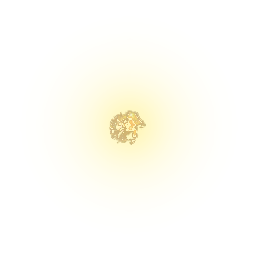
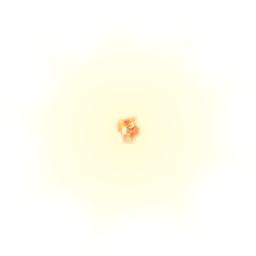
the mark

Changed region(s): [[0.4062, 0.4062, 0.5938, 0.5625]]

diff --git a/soba/test.js b/soba/test.js
@@ -1,158 +1,141 @@
 ( function () {
     'use strict'
-    //From Ashes To Ashes
     //WORLDJS.seed( 'FTg4NCfth3BGzZdR3sWrVDYP' )
-    WORLDJS.zoom( 3 )
+
+    WORLDJS.zoom( 2 )
+
+    const player = WORLDJS.add( { sprite: { image: 'frame' }, width: 5, height: 5, speed: 0.06, physical: true, rotationLock: true } )
+    WORLDJS.add( player, { sprite: { image: 'male' } } ) //, sprite_scale: .3 } )
+
+    let playerspawn = null
+    let campfire = null
+
     WORLDJS.addEventListener( WORLDJS, 'oncellnew', cell => {
         let nx = ( cell.x + 50000 ) / 100000
         let ny = ( cell.y + 50000 ) / 100000
+        let n50 = WORLDJS.noise( nx * 50, ny * 50 )
+        let n100 = WORLDJS.noise( nx * 100, ny * 100 )
+        let n5000 = WORLDJS.noise( nx * 5000, ny * 5000 )
         let n10000 = WORLDJS.noise( nx * 10000, ny * 10000 )
-        WORLDJS.add( { sprite: { image: n10000 > 0 ? 'water' : 'water1' }, x: cell.x, y: cell.y, width: WORLDJS.CELLSIZE, height: WORLDJS.CELLSIZE, opacity: .5, rotation: n10000 * Math.PI, swell_affected: 1 } )
-    } )
-    let swell = .5
-    WORLDJS.start( () => {
-    }, node => {
-        let sprite = WORLDJS.sprites[ node.sprite.name ]
-        if ( 0 < node.swell_affected ) {
-            let n = WORLDJS.time * swell * .0001
-            node.rotation_delta = WORLDJS.noise( node.x / 900 + n, node.y / 900 + n ) * node.swell_affected * 2
-            node.sprite_scale_delta = ( .5 + WORLDJS.noise( node.x / 1200 + n, node.y / 1200 + n ) ) * node.swell_affected * sprite.half_width * .4
+        let n30000 = WORLDJS.noise( nx * 30000, ny * 30000 )
+        if ( n50 < -.1 ) {
+            WORLDJS.add( { sprite: { image: n10000 > 0 ? 'water' : 'water1' }, x: cell.x, y: cell.y, width: WORLDJS.CELLSIZE, height: WORLDJS.CELLSIZE, opacity: .8, rotation: n10000 * Math.PI, swell_affected: 1 } )
+            return
+        }
+        let groundcover = Math.max( 0, Math.min( 1, ( ( ( Math.abs( n100 ) * 2 ) - 1 ) * .5 + n50 * .5 ) + .5 ) * 1.5 )
+        let nodetype = 'water'
+        if ( n50 > .01 ) {
+            WORLDJS.add( { sprite: { image: 'groundgrass' }, x: cell.x + n10000 * 16, y: cell.y + n10000 * 16, width: WORLDJS.CELLSIZE, height: WORLDJS.CELLSIZE, layer: -2, opacity: groundcover, rotation: n10000 * Math.PI } )
+            nodetype = 'groundgrass'
+        } else if ( n100 > 0 ) {
+            WORLDJS.add( { sprite: { image: 'sand' }, x: cell.x + n10000 * 16, y: cell.y + n10000 * 16, width: WORLDJS.CELLSIZE, height: WORLDJS.CELLSIZE, opacity: .8, layer: -1, rotation: n10000 } )
+            nodetype = 'sand'
+        }
+        let offset = n5000 * 25
+        if ( n50 > .01 ) {
+            if ( groundcover > .1 ) {
+                if ( n10000 > 0.7 ) {
+                    WORLDJS.add( { sprite: { image: n10000 < .8 ? 'flower0' : n10000 < .9 ? 'flower1' : n10000 < .95 ? 'flower2' : 'flower3', y: -.9 }, x: cell.x + offset, y: cell.y + offset, rotation: n30000 * Math.PI, wind_affected: 1 } )
+                    nodetype = 'flower'
+                }
+                if ( groundcover > .2 && n5000 > 0.7 ) {
+                    let size = ( groundcover + ( n30000 + 1 ) * .5 ) * 64
+                    WORLDJS.add( { sprite: { image: 'grass0', y: -.2 }, x: cell.x + offset, y: cell.y + offset, width: .6 * size, height: .1 * size, rotation: n30000 * .3, sprite_scale: size / 128, wind_affected: 1 } )
+                    nodetype = 'grass'
+                }
+            }
+        }
+        if ( !playerspawn && n50 > .1 && groundcover > .8 ) {
+            playerspawn = cell
         }
     } )
 
-    // const player = WORLDJS.add( { sprite: { image: 'frame' }, width: 5, height: 5, speed: 0.06, physical: true, rotationLock: true } )
-    // WORLDJS.add( player, { sprite: { image: 'male' } } ) //, sprite_scale: .3 } )
+    WORLDJS.defineSprite( { name: 'object', fill: '#222222', width: 5, height: 5 } )
+    WORLDJS.defineSprite( { name: 'debugreachable', fill: '#22ff22', width: WORLDJS.CELLSIZE, height: WORLDJS.CELLSIZE } )
 
-    // let playerspawn = null
-    // let campfire = null
+    WORLDJS.addEventListener( player, 'nodecellschanged', () => {
+        // let cells = WORLDJS.cellsOccupiedBy( player, player, false, 64, 64 )
+        // for ( let i = 0, l = cells.length; i < l; i++ ) {
+        //     let cell = cells[ i ]
+        //     // cell.debug0 && WORLDJS.setSprite( cell.debug0, { name: 'debugreachable' } )
+        // }
+    } )
 
-    // WORLDJS.addEventListener( WORLDJS, 'oncellnew', cell => {
-    //     let nx = ( cell.x + 50000 ) / 100000
-    //     let ny = ( cell.y + 50000 ) / 100000
-    //     let n50 = WORLDJS.noise( nx * 50, ny * 50 )
-    //     let n100 = WORLDJS.noise( nx * 100, ny * 100 )
-    //     let n1000 = WORLDJS.noise( nx * 1000, ny * 1000 )
-    //     let n5000 = WORLDJS.noise( nx * 5000, ny * 5000 )
-    //     let n10000 = WORLDJS.noise( nx * 10000, ny * 10000 )
-    //     let n30000 = WORLDJS.noise( nx * 30000, ny * 30000 )
-    //     if ( n50 < -.1 ) {
-    //         WORLDJS.add( { sprite: { image: n10000 > 0 ? 'water' : 'water1' }, x: cell.x, y: cell.y, width: WORLDJS.CELLSIZE, height: WORLDJS.CELLSIZE, opacity: .5, rotation: n10000 * Math.PI, swell_affected: 1 } )
-    //         return
-    //     }
-    //     let groundcover = Math.max( 0, Math.min( 1, ( ( ( Math.abs( n100 ) * 2 ) - 1 ) * .5 + n50 * .5 ) + .5 ) * 1.5 )
-    //     let nodetype = 'water'
-    //     if ( n50 > .01 ) {
-    //         WORLDJS.add( { sprite: { image: 'groundgrass' }, x: cell.x + n10000 * 16, y: cell.y + n10000 * 16, width: WORLDJS.CELLSIZE, height: WORLDJS.CELLSIZE, layer: -2, opacity: groundcover, rotation: n10000 * Math.PI } )
-    //         nodetype = 'groundgrass'
-    //     } else if ( n100 > 0 ) {
-    //         WORLDJS.add( { sprite: { image: 'sand' }, x: cell.x + n10000 * 16, y: cell.y + n10000 * 16, width: WORLDJS.CELLSIZE, height: WORLDJS.CELLSIZE, opacity: .8, layer: -1, rotation: n10000 } )
-    //         nodetype = 'sand'
-    //     }
-    //     let offset = n5000 * 25
-    //     if ( n50 > .01 ) {
-    //         if ( groundcover > .1 ) {
-    //             if ( n10000 > 0.7 ) {
-    //                 WORLDJS.add( { sprite: { image: n10000 < .8 ? 'flower0' : n10000 < .9 ? 'flower1' : n10000 < .95 ? 'flower2' : 'flower3', y: -.9 }, x: cell.x + offset, y: cell.y + offset, rotation: n30000 * Math.PI, wind_affected: 1 } )
-    //                 nodetype = 'flower'
-    //             }
-    //             if ( groundcover > .2 && n5000 > 0.7 ) {
-    //                 let size = ( groundcover + ( n30000 + 1 ) * .5 ) * 64
-    //                 WORLDJS.add( { sprite: { image: 'grass0', y: -.2 }, x: cell.x + offset, y: cell.y + offset, width: .6 * size, height: .1 * size, rotation: n30000 * .3, sprite_scale: size / 128, wind_affected: 1 } )
-    //                 nodetype = 'grass'
-    //             }
-    //         }
-    //     }
-    //     if ( !playerspawn && n50 > .1 && groundcover > .8 ) {
-    //         playerspawn = cell
-    //     }
-    // } )
+    const mousemove = WORLDJS.debounce( 250, () => {
+        if ( WORLDJS.mouse.right )
+            WORLDJS.move( player, WORLDJS.mouse.world.x - player.x, WORLDJS.mouse.world.y - player.y )
+        else {
+            // let nodes = WORLDJS.nodesXY( WORLDJS.mouse.world.x, WORLDJS.mouse.world.y )
+            // for ( let i = 0, l = nodes.length; i < l; i++ )
+            //     console.log( nodes[ i ].sprite.name )
+        }
+    } )
 
-    // WORLDJS.defineSprite( { name: 'object', fill: '#222222', width: 5, height: 5 } )
-    // WORLDJS.defineSprite( { name: 'debugreachable', fill: '#22ff22', width: WORLDJS.CELLSIZE, height: WORLDJS.CELLSIZE } )
+    WORLDJS.addEventListener( WORLDJS, 'mousemove', mousemove )
 
-    // WORLDJS.addEventListener( player, 'nodecellschanged', () => {
-    //     // let cells = WORLDJS.cellsOccupiedBy( player, player, false, 64, 64 )
-    //     // for ( let i = 0, l = cells.length; i < l; i++ ) {
-    //     //     let cell = cells[ i ]
-    //     //     // cell.debug0 && WORLDJS.setSprite( cell.debug0, { name: 'debugreachable' } )
-    //     // }
-    // } )
+    const mousedown = WORLDJS.debounce( 90, () => {
+        if ( WORLDJS.mouse.left )
+            WORLDJS.move( player, WORLDJS.mouse.world.x - player.x, WORLDJS.mouse.world.y - player.y )
+        else if ( WORLDJS.mouse.right )
+            WORLDJS.add( { sprite: { name: 'object' }, x: WORLDJS.mouse.world.x, y: WORLDJS.mouse.world.y, physical: true } )
+    } )
 
-    // const mousemove = WORLDJS.debounce( 250, () => {
-    //     if ( WORLDJS.mouse.right )
-    //         WORLDJS.move( player, WORLDJS.mouse.world.x - player.x, WORLDJS.mouse.world.y - player.y )
-    //     else {
-    //         // let nodes = WORLDJS.nodesXY( WORLDJS.mouse.world.x, WORLDJS.mouse.world.y )
-    //         // for ( let i = 0, l = nodes.length; i < l; i++ )
-    //         //     console.log( nodes[ i ].sprite.name )
-    //     }
-    // } )
+    WORLDJS.addEventListener( WORLDJS, 'mousedown', mousedown )
 
-    // WORLDJS.addEventListener( WORLDJS, 'mousemove', mousemove )
+    let wind = .5
+    let swell = .5
+    WORLDJS.start( () => {
+        if ( !playerspawn ) {
+            let x = Math.round( WORLDJS.noise( WORLDJS.time * .0001, 0 ) * 100000 )
+            let y = Math.round( WORLDJS.noise( 0, WORLDJS.time * .0001 ) * 100000 )
+            WORLDJS.view( x, y )
+        } else if ( !campfire ) {
+            let nx = ( playerspawn.x + 50000 ) / 100000
+            let ny = ( playerspawn.y + 50000 ) / 100000
+            let n = WORLDJS.noise( nx * 30000, ny * 30000 )
+            campfire = WORLDJS.add( { sprite: { image: 'campfire' }, x: playerspawn.x - 45, y: playerspawn.y + 32, layer: -1, width: 1.5 * WORLDJS.CELLSIZE, height: 1.5 * WORLDJS.CELLSIZE, physical: true, rotation: n } )
+            WORLDJS.add( { sprite: { image: 'flame' }, x: campfire.x - 2 * n, y: campfire.y - 2 * n, flame_affect: 1, opacity: 1, rotation: .5 * Math.PI + n * Math.PI, layer: 1 } )
+            WORLDJS.add( { sprite: { image: 'flame' }, x: campfire.x + 2 * n, y: campfire.y + 2 * n, flame_affect: .5, opacity: 1, rotation: n * Math.PI, layer: 2 } )
+            WORLDJS.translate( player, playerspawn.x, playerspawn.y )
+            WORLDJS.follow( player )
+        }
+    }, node => {
+        if ( !campfire || !node.sprite ) return
 
-    // const mousedown = WORLDJS.debounce( 90, () => {
-    //     if ( WORLDJS.mouse.left )
-    //         WORLDJS.move( player, WORLDJS.mouse.world.x - player.x, WORLDJS.mouse.world.y - player.y )
-    //     else if ( WORLDJS.mouse.right )
-    //         WORLDJS.add( { sprite: { name: 'object' }, x: WORLDJS.mouse.world.x, y: WORLDJS.mouse.world.y, physical: true } )
-    // } )
+        // keep the campfire area clear of grass, flowers, groundgrass
+        let distance_from_camp = WORLDJS.distance( campfire, node )
+        if ( distance_from_camp <= 128 ) {
+            if ( node.name === 'groundgrass' || node.name.startsWith( 'sand' ) ) {
+                node.opacity = Math.max( 0, ( distance_from_camp - 98 ) / 128 )
+            } else if ( node.name === 'grass0' || node.name.startsWith( 'flower' ) )
+                WORLDJS.remove( node )
+            else if ( node === player ) {
+                //console.log( 'under the healing affect of the fire' )
+            }
+        }
 
-    // WORLDJS.addEventListener( WORLDJS, 'mousedown', mousedown )
 
-    // let wind = .5
-    // let swell = .5
-    // WORLDJS.start( () => {
-    //     if ( !playerspawn ) {
-    //         let x = Math.round( WORLDJS.noise( WORLDJS.time * .0001, 0 ) * 100000 )
-    //         let y = Math.round( WORLDJS.noise( 0, WORLDJS.time * .0001 ) * 100000 )
-    //         console.log( 'searching for spawn', x, y )
-    //         WORLDJS.view( x, y )
-    //     } else if ( !campfire ) {
-    //         console.log( 'found spawn at ', playerspawn.x, playerspawn.y )
-    //         let nx = ( playerspawn.x + 50000 ) / 100000
-    //         let ny = ( playerspawn.y + 50000 ) / 100000
-    //         let n30000 = WORLDJS.noise( nx * 30000, ny * 30000 )
-    //         campfire = WORLDJS.add( { sprite: { image: 'campfire' }, x: playerspawn.x - 45, y: playerspawn.y + 32, layer: -1, width: 1.5 * WORLDJS.CELLSIZE, height: 1.5 * WORLDJS.CELLSIZE, physical: true, rotation: n30000 } )
-    //         WORLDJS.add( { sprite: { image: 'flame' }, x: campfire.x, y: campfire.y, flame_affect: 1, rotation: n30000 * -Math.PI * 2, layer: 2 } )
-    //         //WORLDJS.add( { sprite: { image: 'flame' }, x: campfire.x + 5, y: campfire.y + 5, flame_affect: .5, rotation: n30000 * -Math.PI, layer: 1 } )
-    //         WORLDJS.translate( player, playerspawn.x, playerspawn.y )
-    //         WORLDJS.follow( player )
-    //     }
-    // }, node => {
-    //     if ( !campfire || !node.sprite ) return
+        let mid_cell = node.cells[ 0 ]
 
-    //     // keep the campfire area clear of grass, flowers, groundgrass
-    //     let distance_from_camp = WORLDJS.distance( campfire, node )
-    //     if ( distance_from_camp <= 128 ) {
-    //         if ( node.name === 'groundgrass' || node.name.startsWith( 'sand' ) ) {
-    //             node.opacity = Math.max( 0, ( distance_from_camp - 98 ) / 128 )
-    //         } else if ( node.name === 'grass0' || node.name.startsWith( 'flower' ) )
-    //             WORLDJS.remove( node )
-    //         else if ( node === player ) {
-    //             //console.log( 'under the healing affect of the fire' )
-    //         }
-    //     }
+        if ( 0 < node.flame_affect ) {
+            let n = WORLDJS.time * wind * .0015
+            let n1000 = WORLDJS.noise( node.layer * mid_cell.noise_x * 1000 + n, node.layer * mid_cell.noise_y * 1000 + n )
+            let n2000 = WORLDJS.noise( node.layer * mid_cell.noise_x * 2000 + n, node.layer * mid_cell.noise_y * 2000 + n )
+            node.translate_x_delta = n1000 * node.flame_affect * 2
+            node.translate_y_delta = n2000 * node.flame_affect * 2
+            node.rotation_delta = n2000 * node.flame_affect * .05
+            node.sprite_scale_delta = ( .5 + n1000 ) * node.flame_affect * .04
+        } else if ( 0 < node.wind_affected ) {
+            let n = WORLDJS.time * wind * .0008
+            node.rotation_delta = WORLDJS.noise( node.x * .0009 + n, node.y * .0009 + n ) * node.wind_affected * .02
+            node.sprite_scale_delta = ( .5 + WORLDJS.noise( node.x * .005 + n, node.y * .005 + n ) ) * node.wind_affected
+        } else if ( 0 < node.swell_affected ) {
+            let n = WORLDJS.time * swell * .0001
+            node.translate_x_delta = n * node.swell_affected * 5
+            node.translate_y_delta = n * node.swell_affected * 5
+            node.rotation_delta = WORLDJS.noise( node.x / 900 + n, node.y / 900 + n ) * node.swell_affected * 1.5
+            node.sprite_scale_delta = ( .5 + WORLDJS.noise( node.x / 1200 + n, node.y / 1200 + n ) ) * node.swell_affected * 20
+        }
 
-    //     // apply a small rotation and scale delta to nodes affected by wind and swell
-    //     let nx = ( node.x + 50000 ) / 100000
-    //     let ny = ( node.y + 50000 ) / 100000
-    //     let sprite = WORLDJS.sprites[ node.sprite.name ]
-    //     if ( 0 < node.wind_affected ) {
-    //         let n = WORLDJS.time * wind * .0008
-    //         node.rotation_delta = WORLDJS.noise( node.x * .0009 + n, node.y * .0009 + n ) * node.wind_affected * .02
-    //         node.sprite_scale_delta = ( .5 + WORLDJS.noise( node.x * .005 + n, node.y * .005 + n ) ) * node.wind_affected * sprite.half_width * .01
-    //     } else if ( 0 < node.swell_affected ) {
-    //         // let n = WORLDJS.time * swell * .00008
-    //         // node.rotation_delta = WORLDJS.noise( node.x / 900 + n, node.y / 900 + n ) * node.swell_affected * .8
-    //         // node.sprite_scale_delta = ( .5 + WORLDJS.noise( node.x / 500 + n, node.y / 500 + n ) ) * node.swell_affected * sprite.half_width * .5
-
-    //         let n = WORLDJS.time * swell * .0001
-    //         node.rotation_delta = WORLDJS.noise( node.x / 900 + n, node.y / 900 + n ) * node.swell_affected
-    //         node.sprite_scale_delta = ( .5 + WORLDJS.noise( node.x / 1200 + n, node.y / 1200 + n ) ) * node.swell_affected * sprite.half_width * .5
-    //     } else if ( 0 < node.flame_affect ) {
-    //         let n = WORLDJS.time * wind * .008
-    //         node.rotation_delta = WORLDJS.noise( nx * 1000 + n, ny * 1000 + n ) * node.flame_affect * .1
-    //         node.sprite_scale_delta = ( .5 + WORLDJS.noise( nx * 1000 + n, ny * 1000 + n ) ) * node.flame_affect * sprite.half_width * .1
-    //     }
-    // } )
+    } )
 } )()

diff --git a/fire/fire.js b/fire/fire.js
@@ -1,0 +1,22 @@
+( function () {
+    'use strict'
+    WORLDJS.zoom( 3 )
+    let n = WORLDJS.noise( 0, 0 )
+    let campfire = WORLDJS.add( { sprite: { image: 'campfire' }, x: 0, y: 0, rotation: n } )
+    WORLDJS.add( { sprite: { image: 'flame' }, x: campfire.x - 2 * n, y: campfire.y - 2 * n, flame_affect: 1, opacity: .5, rotation: .5 * Math.PI + n * Math.PI, layer: 1 } )
+    WORLDJS.add( { sprite: { image: 'flame' }, x: campfire.x + 2 * n, y: campfire.y + 2 * n, flame_affect: .5, opacity: .5, rotation: n * Math.PI, layer: 2 } )
+    let wind = .5
+    WORLDJS.start( () => {
+    }, node => {
+        let mid_cell = node.cells[ 0 ]
+        if ( 0 < node.flame_affect ) {
+            let n = WORLDJS.time * wind * .008
+            let n1000 = WORLDJS.noise( node.layer * mid_cell.noise_x * 1000 + n, node.layer * mid_cell.noise_y * 1000 + n )
+            let n2000 = WORLDJS.noise( node.layer * mid_cell.noise_x * 2000 + n, node.layer * mid_cell.noise_y * 2000 + n )
+            node.translate_x_delta = n1000 * node.flame_affect * 2
+            node.translate_y_delta = n2000 * node.flame_affect * 2
+            node.rotation_delta = n2000 * node.flame_affect * .05
+            node.sprite_scale_delta = ( .5 + n1000 ) * node.flame_affect * .04
+        }
+    } )
+} )()

diff --git a/water/water.js b/water/water.js
@@ -5,7 +5,7 @@
         let nx = ( cell.x + 50000 ) / 100000
         let ny = ( cell.y + 50000 ) / 100000
         let n10000 = WORLDJS.noise( nx * 10000, ny * 10000 )
-        WORLDJS.add( { sprite: { image: n10000 > 0 ? 'water' : 'water1' }, x: cell.x, y: cell.y, width: WORLDJS.CELLSIZE, height: WORLDJS.CELLSIZE, opacity: .5, rotation: n10000 * Math.PI, swell_affected: 1 } )
+        WORLDJS.add( { sprite: { image: n10000 > 0 ? 'water' : 'water1' }, x: cell.x, y: cell.y, width: WORLDJS.CELLSIZE, height: WORLDJS.CELLSIZE, opacity: .8, rotation: n10000 * Math.PI, swell_affected: 1 } )
     } )
     let swell = .5
     WORLDJS.start( () => {

diff --git a/fire/index.html b/fire/index.html
@@ -1,0 +1,21 @@
+<!doctype html>
+<html>
+
+<head>
+    <meta charset="utf-8">
+    <meta name="viewport" content="width=device-width, initial-scale=1, maximum-scale=1, user-scalable=no" />
+    <title>fire</title>
+    <style>
+        body {
+            margin: 0;
+            overflow: hidden;
+        }
+    </style>
+</head>
+
+<body>
+    <script src="./world.js"></script>
+    <script src="./fire.js"></script>
+</body>
+
+</html>
